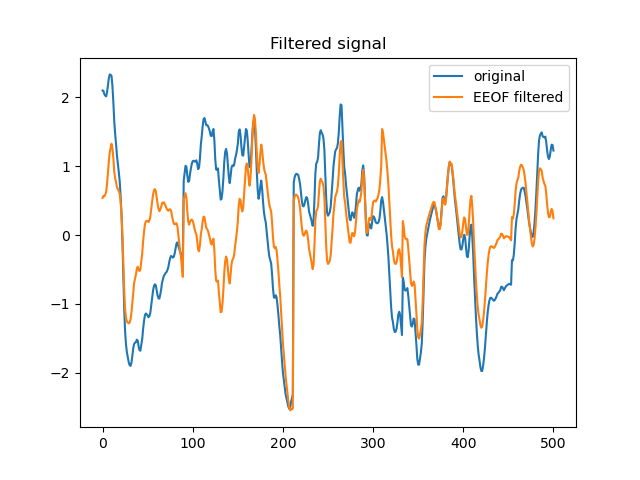
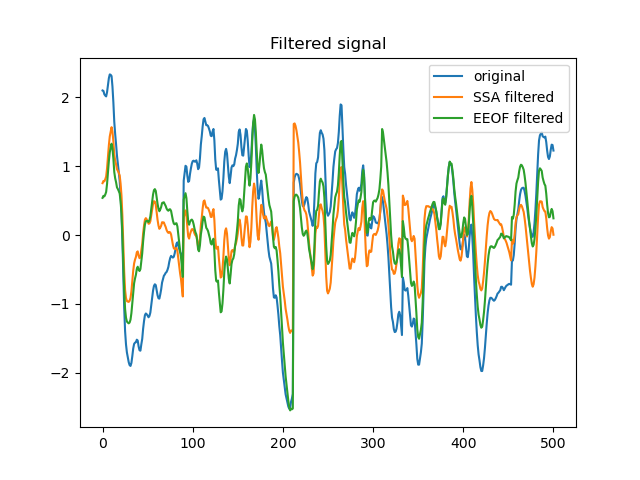
Include demo worklfows dependencies

Changed region(s): [[0.1562, 0.25, 0.875, 0.875], [0.6562, 0.1875, 0.9062, 0.2812]]

diff --git a/demo_script.py b/demo_script.py
@@ -147,8 +147,13 @@ def main():
         plt.savefig(os.path.join(output_dir, f"eeof_ssa_{col}.png"))
         if show_plots: plt.show()
 
+        ssa_computed = ssa_computed.T
+        if len(ssa_computed[0]) == len(demo):
+            print("Matches axis = 0")
+        if len(ssa_computed) == len(demo):
+            print("Matches axis = 1")
 
-        demo["ssa_"+col] = demo[col] - ssa_computed[:n_components].sum(axis=0)
+        demo["ssa_"+col] = demo[col] - ssa_computed[:, :n_components].sum(axis=1)
 
         demo.loc[:, "eeof_"+col] = np.full_like(demo["ssa_"+col], np.nan)
         demo.loc[:309, "eeof_"+col] = demo.loc[:309, col] - eeof_computed[399:709, 0].T
